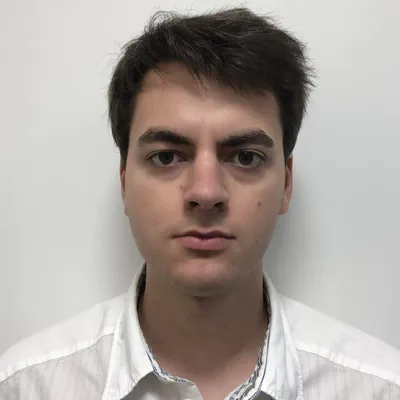
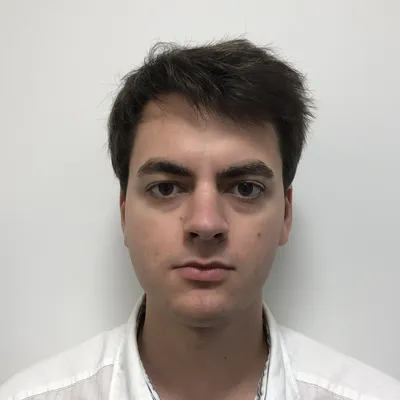
update team and news

diff --git a/src/components/team/TeamMemberDialogContent.tsx b/src/components/team/TeamMemberDialogContent.tsx
@@ -22,7 +22,7 @@ export function TeamMemberDialogContent({ member }: TeamMemberDialogContentProps
         <div className="flex items-start gap-6 mb-6">
           <div className="w-32 h-32 rounded-lg bg-gradient-to-br from-primary/10 to-accent/10 flex items-center justify-center flex-shrink-0">
             {member.imageUrl ? (
-              <img src={member.imageUrl} alt={member.name} className="w-full h-full object-cover rounded-lg" style={{ ...(member.imagePosition ? { objectPosition: member.imagePosition } : {}), ...(member.imageScale ? { transform: `scale(${member.imageScale})` } : {}) }} loading="lazy" decoding="async" />
+              <img src={member.imageUrl} alt={member.name} className="w-full h-full object-cover rounded-lg" style={member.imagePosition ? { objectPosition: member.imagePosition } : undefined} loading="lazy" decoding="async" />
             ) : (
               <User size={60} className="text-muted-foreground" weight="light" />
             )}

diff --git a/src/components/team/TeamGrid.tsx b/src/components/team/TeamGrid.tsx
@@ -34,10 +34,7 @@ export function TeamGrid({ members, title, onSelect }: TeamGridProps) {
                   src={member.imageUrl} 
                   alt={member.name} 
                   className="w-full h-full object-cover" 
-                  style={{
-                    ...(member.imagePosition ? { objectPosition: member.imagePosition } : {}),
-                    ...(member.imageScale ? { transform: `scale(${member.imageScale})` } : {}),
-                  }}
+                  style={member.imagePosition ? { objectPosition: member.imagePosition } : undefined}
                   loading="lazy"
                   decoding="async"
                 />

diff --git a/src/lib/team-data.ts b/src/lib/team-data.ts
@@ -134,7 +134,6 @@ export const teamMembers: TeamMember[] = [
     category: 'product-engineering',
     imageUrl: robertTothImg,
     imagePosition: 'center 65%',
-    imageScale: 0.9,
     shortBio: '[Short bio placeholder]',
     fullBio: '[Full bio placeholder]',
     education: ['[Education placeholder]'],

diff --git a/src/lib/types.ts b/src/lib/types.ts
@@ -39,8 +39,6 @@ export interface TeamMember {
   imageUrl?: string
   /** CSS object-position for image cropping */
   imagePosition?: string
-  /** CSS scale for image sizing (e.g. 0.9 = 90%) */
-  imageScale?: number
   /** LinkedIn profile URL */
   linkedin?: string
   /** Google Scholar profile URL */
